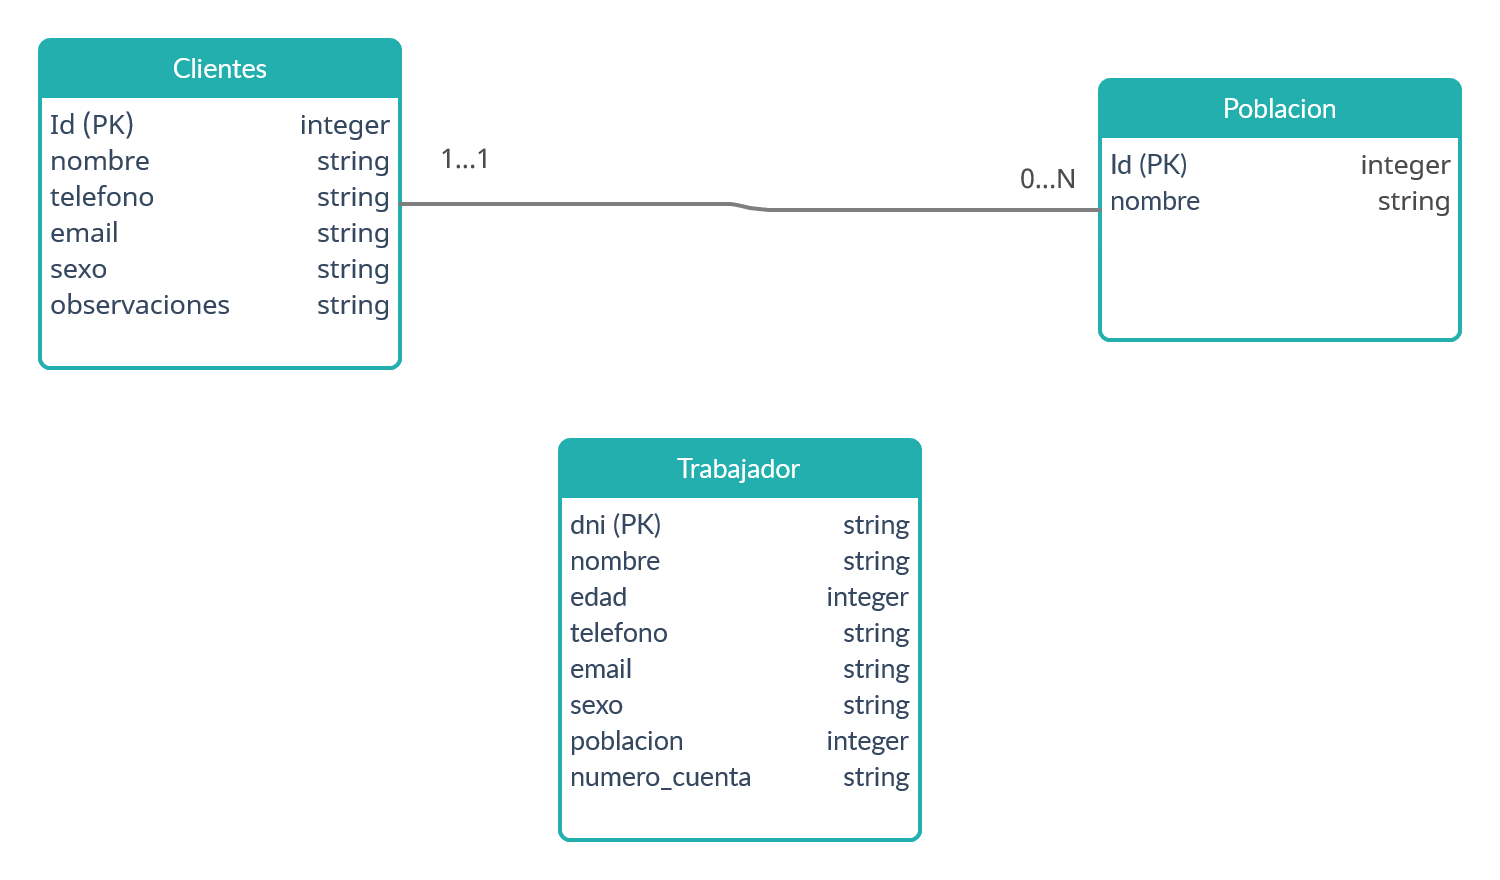
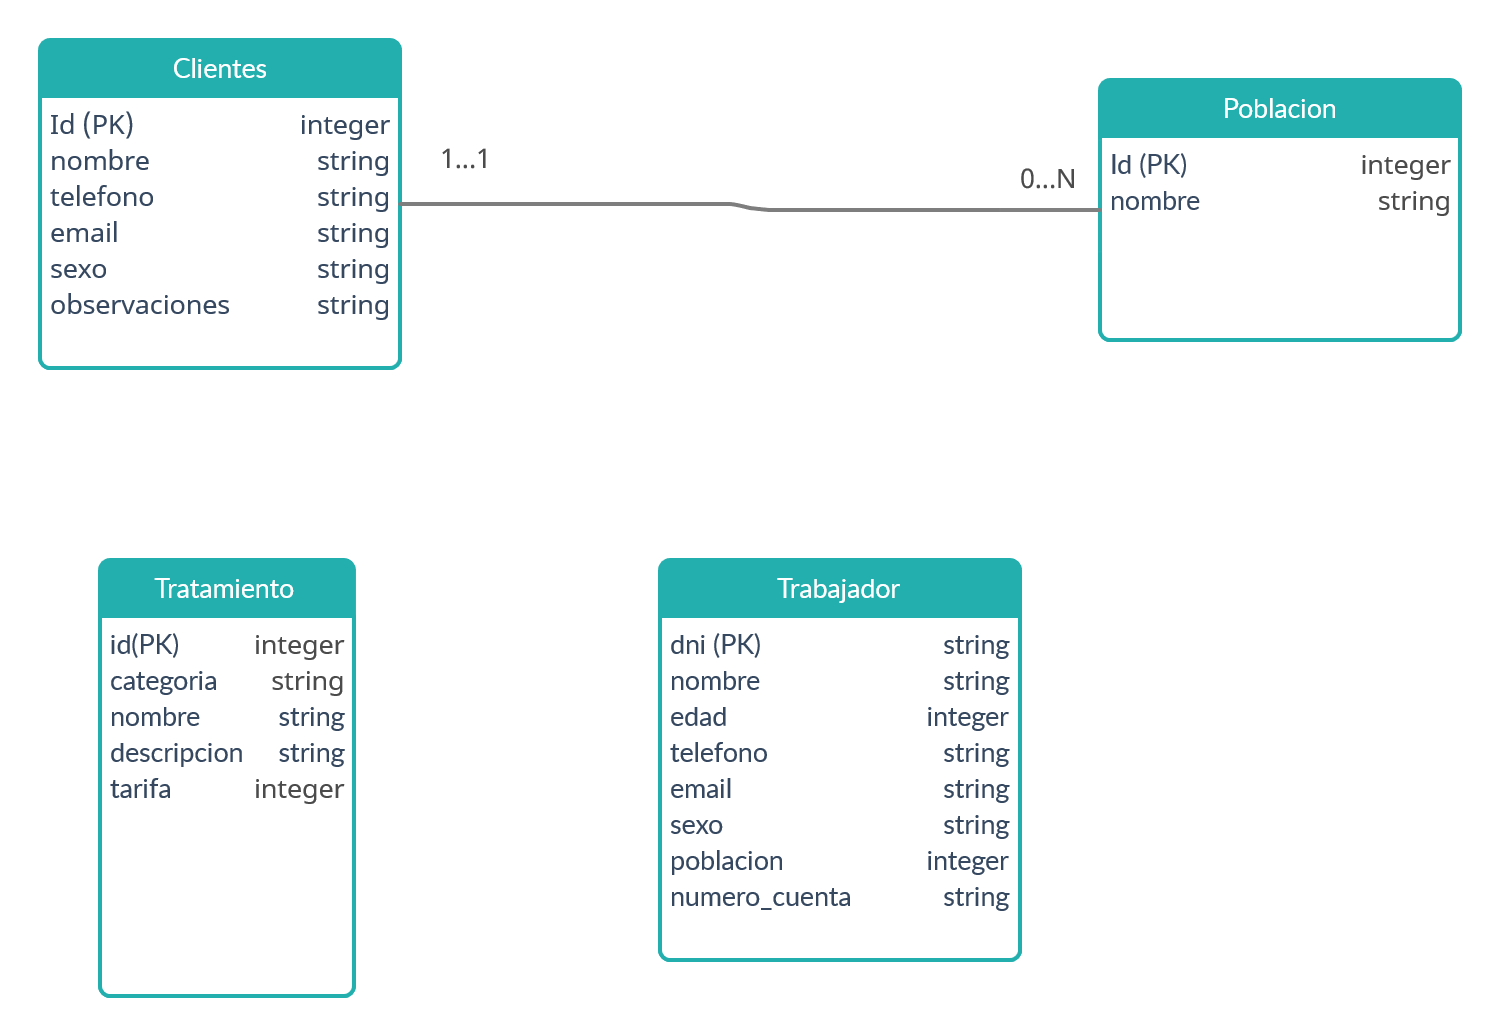
Creada la tabla tratamientos, su seeder y su modelo.

diff --git a/database/seeders/TratamientosTableSeeder.php b/database/seeders/TratamientosTableSeeder.php
@@ -1,0 +1,27 @@
+<?php
+
+namespace Database\Seeders;
+
+use Illuminate\Database\Seeder;
+use App\Models\Tratamientos;
+
+class TratamientosTableSeeder extends Seeder
+{
+    /**
+     * Run the database seeds.
+     *
+     * @return void
+     */
+    public function run()
+    {
+        \DB::Table('tratamientos')->delete();
+		
+        $tratamiento = new Tratamientos(['categoria' => 'Fisioterapia','nombre' => 'Ecografía Músculo Esquelética', 'descripcion' => 'La ecografía musculoesquelética es una técnica cada vez más importante dentro de la
+		práctica clínica del fisioterapeuta, tanto en el diagnóstico de fisioterapia como en el posterior tratamiento. La ecografía cuenta con evidencia científica de alta calidad que avala su uso dentro del proceso de 
+		razonamiento clínico, ayudando al fisioterapeuta a entender e interpretar de la mejor manera posible las deficiencias que presenta el paciente.Es una herramienta dinámica, muy eficaz, que los fisioterapeutas de 
+		la Clínica Vicente Pascual utilizan dentro del examen físico del paciente permitiéndoles, en tiempo real y de forma comparativa, evaluar de forma objetiva el tejido lesionado, programar adecuadamente el programa 
+		de Fisioterapia, al mismo tiempo, valorar en las sucesivas sesiones la evolución con el tratamiento de fisioterapia recibido, mejorando de esta forma la calidad de la atención prestada a nuestros pacientes.', 
+		'tarifa' => '40']);
+        $tratamiento->save();
+    }
+}

diff --git a/database/migrations/2021_01_12_232409_create_tratamientos_table.php b/database/migrations/2021_01_12_232409_create_tratamientos_table.php
@@ -1,0 +1,37 @@
+<?php
+
+use Illuminate\Database\Migrations\Migration;
+use Illuminate\Database\Schema\Blueprint;
+use Illuminate\Support\Facades\Schema;
+
+class CreateTratamientosTable extends Migration
+{
+    /**
+     * Run the migrations.
+     *
+     * @return void
+     */
+    public function up()
+    {
+        Schema::create('tratamientos', function (Blueprint $table) 
+		{
+            $table->increments('id');
+			$table->string('categoria', 100);
+			$table->string('nombre', 100);
+			$table->string('descripcion', 1000);
+			$table->integer('tarifa');
+        });
+		
+		DB::statement('ALTER TABLE tratamientos ADD CONSTRAINT chk_categoria_tratamientos CHECK (categoria in ("Fisioterapia", "Osteopatía", "Acupuntura", "Pilates", "Psicología"));');
+	}
+
+    /**
+     * Reverse the migrations.
+     *
+     * @return void
+     */
+    public function down()
+    {
+        Schema::dropIfExists('tratamientos');
+    }
+}

diff --git a/database/seeders/DatabaseSeeder.php b/database/seeders/DatabaseSeeder.php
@@ -15,9 +15,12 @@ class DatabaseSeeder extends Seeder
     {
 		\DB::Table('clientes')->delete();
 		\DB::Table('poblacion')->delete();
+		\DB::Table('tratamientos')->delete();
 		
 		$this->call(PoblacionTableSeeder::class);
 		$this->call(ClientesTableSeeder::class);
+		$this->call(TratamientosTableSeeder::class);
+		//$this->call(TrabajadoresTableSeeder::class);
         // \App\Models\User::factory(10)->create();
     }
 }

diff --git a/app/Models/Tratamientos.php b/app/Models/Tratamientos.php
@@ -1,0 +1,17 @@
+<?php
+
+namespace App\Models;
+
+use Illuminate\Database\Eloquent\Factories\HasFactory;
+use Illuminate\Database\Eloquent\Model;
+
+class Tratamientos extends Model
+{
+    use HasFactory;
+	
+	protected $table = 'tratamientos';
+	public $primarykey = 'id';
+	public $incrementing = true;
+	public $timestamps = false;
+	protected $fillable = ['categoria', 'nombre', 'descripcion', 'tarifa'];
+}
